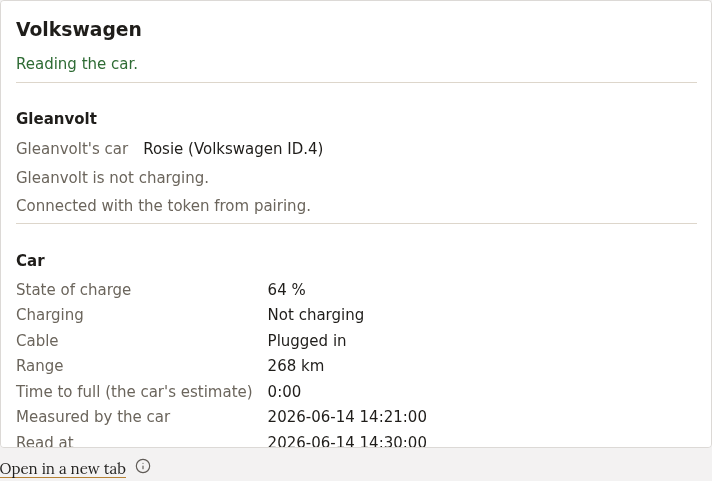
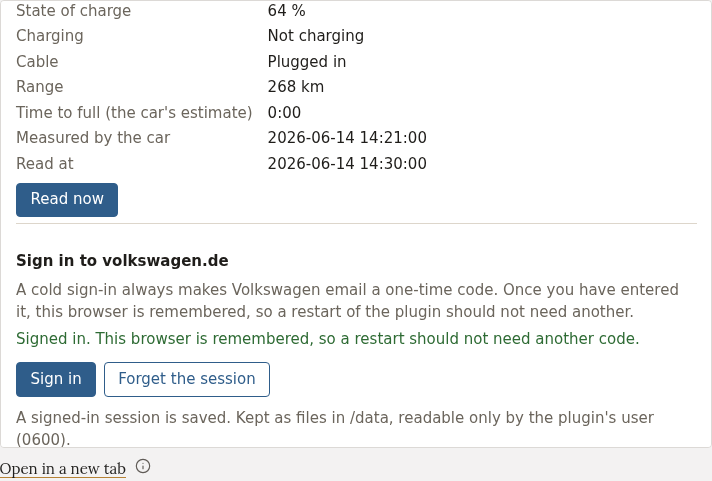
The manual's car plugin picture shows the reading and the sign-in again; leftovers of the moved plugins removed (#474)

diff --git a/tests/Gleanvolt.Web.Screenshots/ProviderPageScreenshot.cs b/tests/Gleanvolt.Web.Screenshots/ProviderPageScreenshot.cs
@@ -27,7 +27,7 @@ internal static class ProviderPageScreenshot
 {
     /// <summary>
     /// A car plugin's own page (#410, #474): the car layer's shared page, as the Volkswagen plugin in gleanvolt-cars
-    /// shows it, with a reading taken two minutes ago and a sign-in section of the plugin's own. The plugin itself is
+    /// shows it, with a reading the car took nine minutes ago, read just now, and a sign-in section of the plugin's own. The plugin itself is
     /// not in this repository, so its section is drawn here in its shape.
     /// </summary>
     public static string CarPlugin(DateTimeOffset now)
@@ -71,12 +71,14 @@ internal static class ProviderPageScreenshot
                 "<p class=\"muted\" id=\"not-connected\">[^<]*</p>",
                 $"<dl id=\"car\"><dt>{CarText.GleanvoltCar.En}</dt><dd>Rosie (Volkswagen ID.4)</dd></dl><p id=\"session\" class=\"muted\">{CarText.SessionClosed.En}</p>");
 
+            // The frame is shorter than the page: scrolled, as the owner would, to the car's reading and the sign-in
+            // under it, which is what the manual's step is about.
             var css = File.ReadAllText(Path.Combine(RepositoryRoot(), "src", "Gleanvolt.Plugins.Hosting", "wwwroot", "app.css"));
             return $"""
                 <!DOCTYPE html>
                 <html lang="en" data-theme="light">
                 <head><meta charset="utf-8" /><style>{css}</style></head>
-                <body>{markup}</body>
+                <body onload="document.getElementById('reading').scrollIntoView()">{markup}</body>
                 </html>
                 """;
         }

diff --git a/docs/IMPLEMENTATION_LOG.md b/docs/IMPLEMENTATION_LOG.md
@@ -40,6 +40,9 @@ fix ships without a Gleanvolt release and more cars can be added there.
 - A car blocked in its constructor (no account yet) isn't logged, because `CarPoller` subscribes afterwards. This is a
   follow-up for the SDK.
 - The new repository's CI is red on restore until preview.6 is on nuget.org.
+- The car layer's page puts Gleanvolt's car and a longer reading above the plugin's own sections, so in the Car page's
+  fixed-height frame the sign-in fell below the fold. The picture's document scrolls itself to the reading, as an owner
+  would, so the reading and the sign-in are both in it.
 
 **Not done here.** The Pi still runs its hand-built Volkswagen container. Swapping it for the gleanvolt-cars build
 waits for the owner's word. Nothing is released: shipping is #476.
